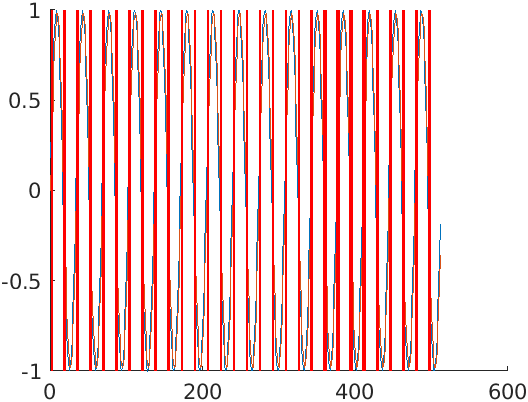
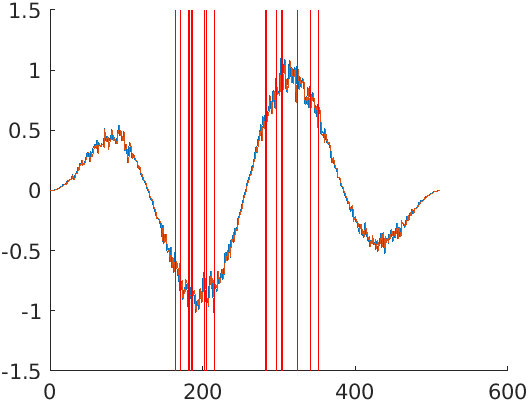
Edit example, add picture

Changed region(s): [[0.0, 0.0, 0.8485, 0.9552]]

diff --git a/test/example.m b/test/example.m
@@ -3,8 +3,8 @@ sampleRate = 2048;
 sampleTime = 1 / sampleRate;
 stopTime = 0.25;
 t = (0:sampleTime:stopTime-sampleTime)';
-F = 60;
-data = sin(2*pi*F*t);
+measurementError = 0.1 .* randn(sampleRate * stopTime, 1) + 1;
+data = sin(4*pi*t) .* sin(16*pi*t) .* measurementError;
 
 % train the model
 model = fitAr(data, sampleTime, 1);
@@ -14,7 +14,8 @@ order = modelOrder(model);
 % the first order elements are only used to predict
 window = data(order + 1:numel(data));
 errors = errorsOfWalkForward(data, estimate);
-culled = cullErrors(errors, 0.175);
+threshold = 0.175;
+culled = cullErrors(errors, threshold);
 fig=figure; 
 hax=axes; 
 hold on

diff --git a/README.md b/README.md
@@ -22,8 +22,8 @@ sampleRate = 2048;
 sampleTime = 1 / sampleRate;
 stopTime = 0.25;
 t = (0:sampleTime:stopTime-sampleTime)';
-F = 60;
-data = sin(2*pi*F*t);
+measurementError = 0.1 .* randn(sampleRate * stopTime, 1) + 1;
+data = sin(4*pi*t) .* sin(16*pi*t) .* measurementError;
 ```
 Next, train the autoregressive model with the data
 ```m
@@ -38,7 +38,8 @@ order = modelOrder(model);
 % the first order elements are only used to predict
 window = data(order + 1:numel(data));
 errors = errorsOfWalkForward(data, estimate);
-culled = cullErrors(errors, 0.175);
+threshold = 0.175;
+culled = cullErrors(errors, threshold);
 fig=figure; 
 hax=axes; 
 hold on
@@ -50,6 +51,10 @@ for i = 1:size(culled,1)
 end
 hold off
 ```
+Here is the plot produced. The red lines indicate the points where the
+prediction error was above the threshold (0.175):
+
+![plot of the test data with the errors marked](example.png)
 
 ## Example with EEG data
 (The following code snippets may be found in ```test/test0.m```.
